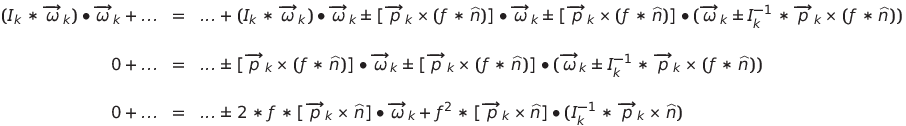
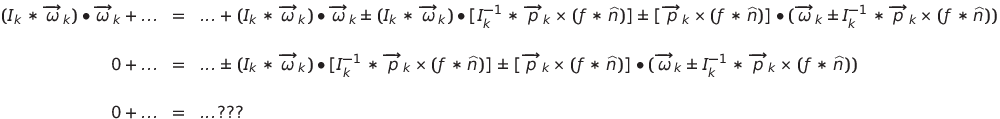
I think I messed up. But here's as far as I've managed to get.

diff --git a/doc/physics.latex.md b/doc/physics.latex.md
@@ -187,9 +187,9 @@ m_1 * s_1^2 + m_2 * s_2^2 + (I_1 * \overrightarrow{\omega}_1) \bullet \overright
 
 ## angular_energy_eqn4
 ```latex
-(I_k * \overrightarrow{\omega}_k) \bullet \overrightarrow{\omega}_k + ... &=& ... + (I_k * \overrightarrow{\omega}_k) \bullet \overrightarrow{\omega}_k \pm [\overrightarrow{p}_k \times (f * \widehat{n})] \bullet \overrightarrow{\omega}_k \pm [\overrightarrow{p}_k \times (f * \widehat{n})] \bullet (\overrightarrow{\omega}_k \pm I_k^{-1} * \overrightarrow{p}_k \times (f * \widehat{n})) \\
+(I_k * \overrightarrow{\omega}_k) \bullet \overrightarrow{\omega}_k + ... &=& ... + (I_k * \overrightarrow{\omega}_k) \bullet \overrightarrow{\omega}_k \pm (I_k * \overrightarrow{\omega}_k) \bullet [I_k^{-1} * \overrightarrow{p}_k \times (f * \widehat{n})] \pm [\overrightarrow{p}_k \times (f * \widehat{n})] \bullet (\overrightarrow{\omega}_k \pm I_k^{-1} * \overrightarrow{p}_k \times (f * \widehat{n})) \\
 \vspace{10} \\
-0 + ... &=& ... \pm [\overrightarrow{p}_k \times (f * \widehat{n})] \bullet \overrightarrow{\omega}_k \pm [\overrightarrow{p}_k \times (f * \widehat{n})] \bullet (\overrightarrow{\omega}_k \pm I_k^{-1} * \overrightarrow{p}_k \times (f * \widehat{n})) \\
+0 + ... &=& ... \pm (I_k * \overrightarrow{\omega}_k) \bullet [I_k^{-1} * \overrightarrow{p}_k \times (f * \widehat{n})] \pm [\overrightarrow{p}_k \times (f * \widehat{n})] \bullet (\overrightarrow{\omega}_k \pm I_k^{-1} * \overrightarrow{p}_k \times (f * \widehat{n})) \\
 \vspace{10} \\
-0 + ... &=& ... \pm 2 * f * [\overrightarrow{p}_k \times \widehat{n}] \bullet \overrightarrow{\omega}_k + f^2 * [\overrightarrow{p}_k \times \widehat{n}] \bullet (I_k^{-1} * \overrightarrow{p}_k \times \widehat{n})
+0 + ... &=& ... ???
 ```
